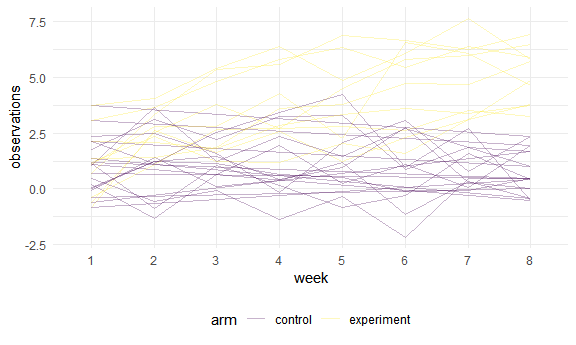
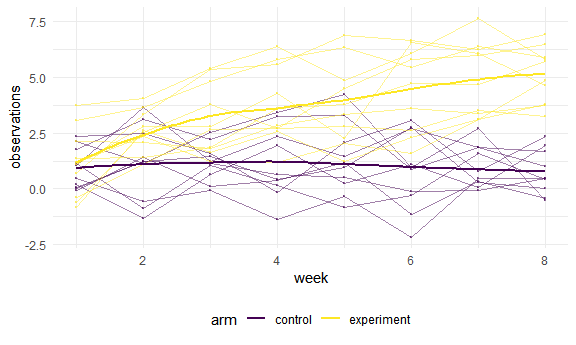
Correct the plot in p2, add geom_smooth

diff --git a/p8105_hw5_cy2588.md b/p8105_hw5_cy2588.md
@@ -238,34 +238,43 @@ lda_data_tidy =
     names_prefix = "week_",
     names_to = "week",
     values_to = "observations"
-  )
+  )%>%
+  mutate(week = as.numeric(week))
 lda_data_tidy
 ```
 
     ## # A tibble: 160 x 4
-    ##    arm     id    week  observations
-    ##    <chr>   <chr> <chr>        <dbl>
-    ##  1 control 01    1             0.2 
-    ##  2 control 01    2            -1.31
-    ##  3 control 01    3             0.66
-    ##  4 control 01    4             1.96
-    ##  5 control 01    5             0.23
-    ##  6 control 01    6             1.09
-    ##  7 control 01    7             0.05
-    ##  8 control 01    8             1.94
-    ##  9 control 02    1             1.13
-    ## 10 control 02    2            -0.88
+    ##    arm     id     week observations
+    ##    <chr>   <chr> <dbl>        <dbl>
+    ##  1 control 01        1         0.2 
+    ##  2 control 01        2        -1.31
+    ##  3 control 01        3         0.66
+    ##  4 control 01        4         1.96
+    ##  5 control 01        5         0.23
+    ##  6 control 01        6         1.09
+    ##  7 control 01        7         0.05
+    ##  8 control 01        8         1.94
+    ##  9 control 02        1         1.13
+    ## 10 control 02        2        -0.88
     ## # ... with 150 more rows
 
 Make a spaghetti plot
 
 ``` r
 lda_data_tidy %>%
+  unite("arm_id",c(arm,id), sep = "_", remove = F)%>%
   ggplot(aes(x = week,
-             y = observations)) +
-  geom_path(aes(color = arm,
+             y = observations))+
+  geom_point(aes(color = arm,
                 group = id),
-            alpha = 0.3)
+             alpha = .5,
+             size = .5)+
+  geom_path(aes(colour = arm, 
+                group = arm_id),
+            alpha = .5)+
+  geom_smooth(aes(colour = arm), se = F)
 ```
+
+    ## `geom_smooth()` using method = 'loess' and formula 'y ~ x'
 
 <img src="p8105_hw5_cy2588_files/figure-gfm/unnamed-chunk-13-1.png" width="90%" />
